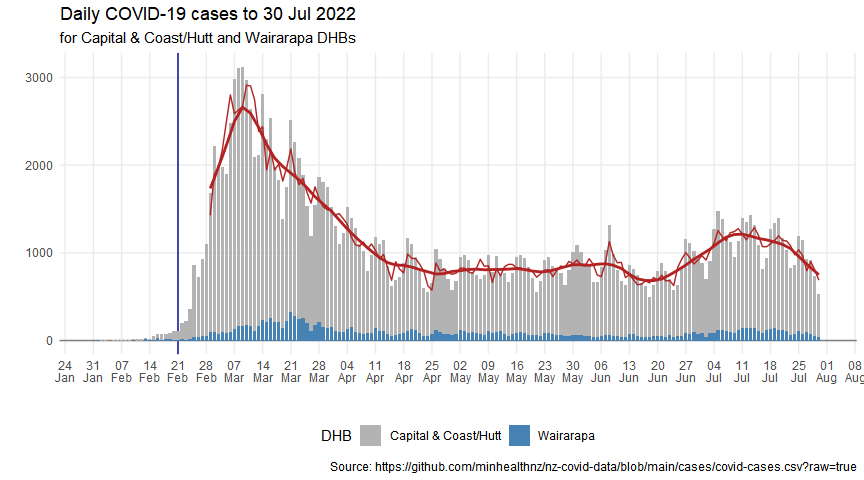
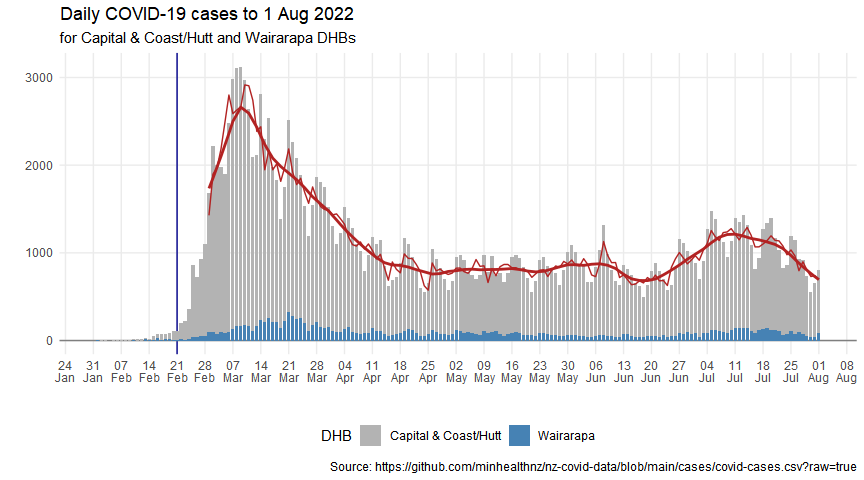
Update for 20220802

Changed region(s): [[0.1875, 0.1562, 0.9688, 0.7188], [0.125, 0.75, 1.0, 0.8125], [0.3125, 0.0, 0.4062, 0.0625]]

diff --git a/covid-post-peak-analysis.md b/covid-post-peak-analysis.md
@@ -29,7 +29,7 @@ cases_df <- read_csv(case_data_url) %>%
   clean_names()
 ```
 
-    ## Rows: 1616341 Columns: 7
+    ## Rows: 1629298 Columns: 7
 
     ## -- Column specification --------------------------------------------------------
     ## Delimiter: ","
@@ -48,7 +48,7 @@ cases_by_dhb_df <- cases_df %>%
   count(report_date, dhb, case_status)
 ```
 
-## Wellington figures up to 30 Jul 2022
+## Wellington figures up to 1 Aug 2022
 
 Including Hutt and Wairarapa as well as CCDHB.
 
